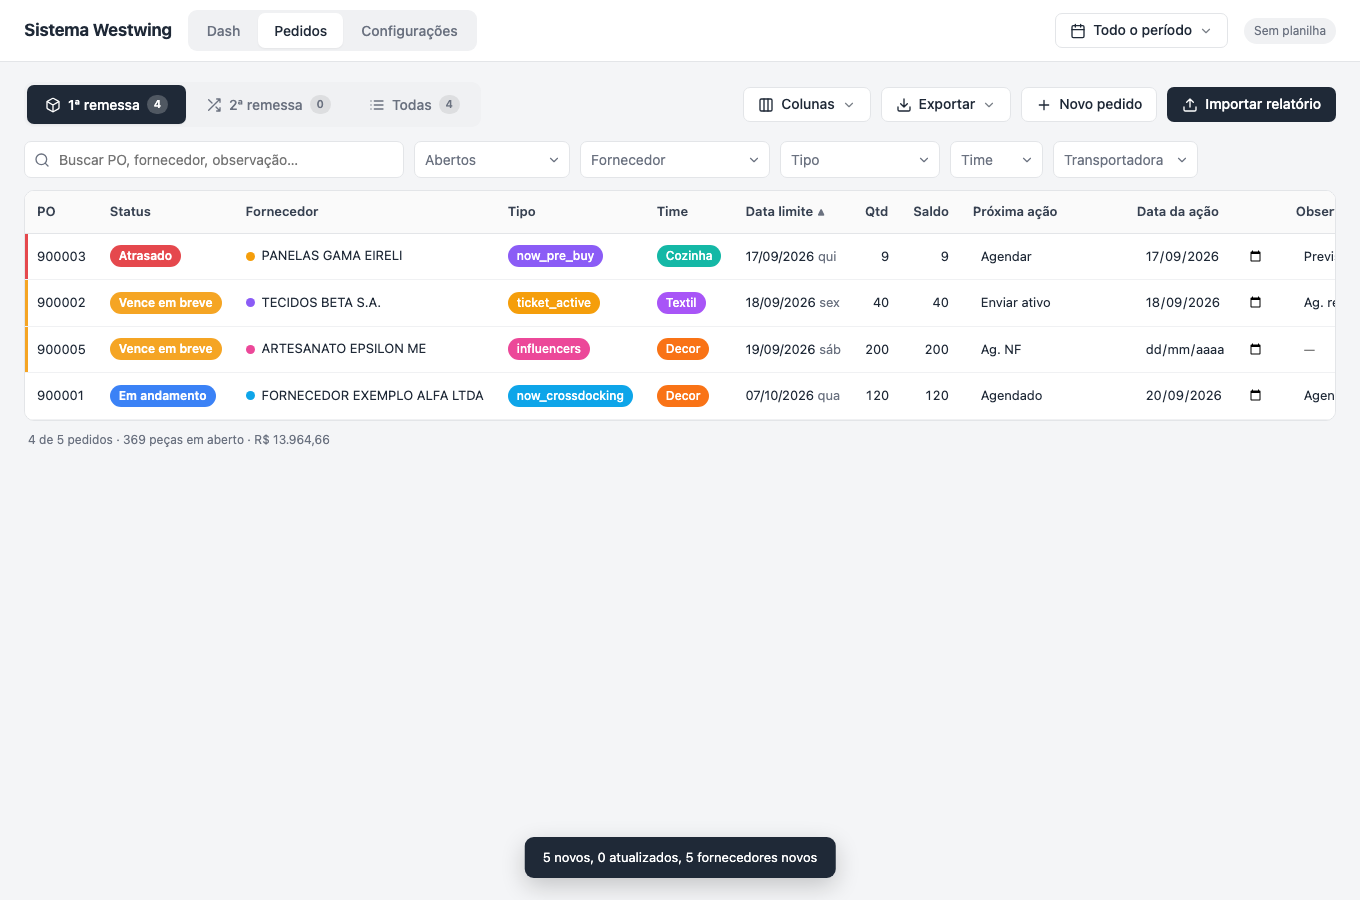
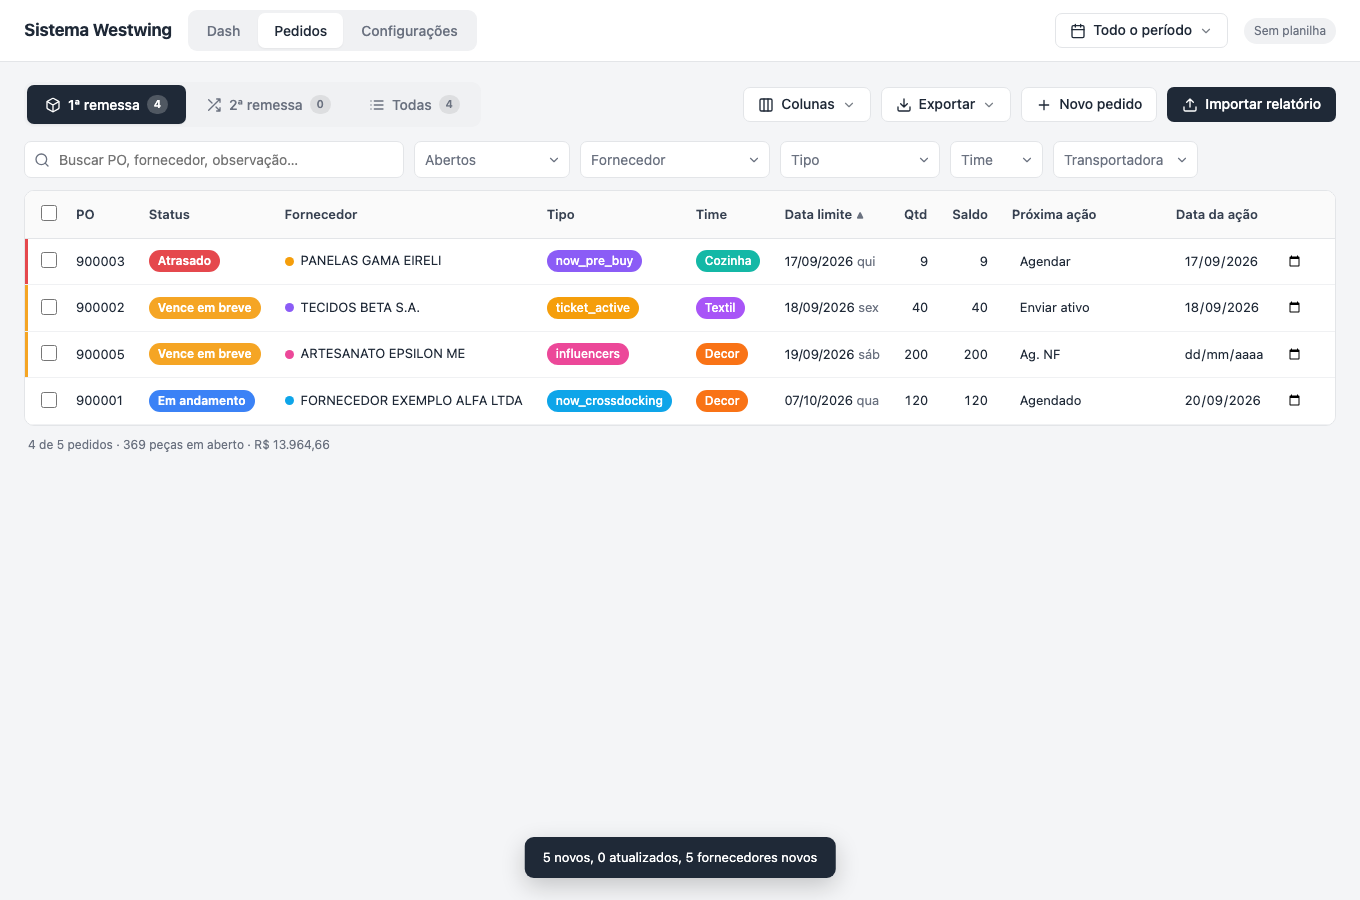
Ações em massa: seleção por caixinha, todos os visíveis, faixa com Shift; finalizar/reabrir/remessa/ação+data/Excel/excluir

diff --git a/app.js b/app.js
@@ -14,6 +14,7 @@
   let S = { pedidos: [], fornecedores: [], transportadoras: [], tags: [], config: {}, fila: [], versao: 0, ultimaSync: '' };
   let L = { apiUrl: '', chave: '' }; // só neste navegador
   let UI = { aba: 'dash', ordem: { col: 'limite', dir: 'asc' }, filtros: { status: 'abertos', remessa: '1' }, buscaForn: '' };
+  const SEL = new Set(); let ultimoSel = null; // seleção pra ações em massa (POs)
 
   function carregar() {
     try { const s = JSON.parse(localStorage.getItem(LS) || 'null'); if (s) S = Object.assign(S, s); } catch (e) { }
@@ -547,7 +548,10 @@
     let lista = C.filtrar(S.pedidos, f, ctx());
     lista = C.ordenar(lista, UI.ordem.col, UI.ordem.dir, ctx());
     const cols = colunasVisiveis();
-    $('#tabela-cab').innerHTML = cols.map(k => '<th data-col="' + esc(k) + '">' + esc(nomeColuna(k)) + (UI.ordem.col === k ? '<span class="seta">' + (UI.ordem.dir === 'asc' ? '▲' : '▼') + '</span>' : '') + '</th>').join('') + '<th></th>';
+    const visiveis = new Set(lista.map(p => String(p.po)));
+    SEL.forEach(po => { if (!visiveis.has(po)) SEL.delete(po); });
+    const todosSel = lista.length > 0 && lista.every(p => SEL.has(String(p.po)));
+    $('#tabela-cab').innerHTML = '<th class="sel"><input type="checkbox" id="sel-todos" title="Selecionar todos os visíveis"' + (todosSel ? ' checked' : '') + '></th>' + cols.map(k => '<th data-col="' + esc(k) + '">' + esc(nomeColuna(k)) + (UI.ordem.col === k ? '<span class="seta">' + (UI.ordem.dir === 'asc' ? '▲' : '▼') + '</span>' : '') + '</th>').join('') + '<th></th>';
     const h = hoje(), ant = S.config.antecedencia;
     const cel = (p, k) => {
       const v = p[k];
@@ -577,13 +581,52 @@
       const tds = cols.map(k => { const c = cel(p, k); return c.startsWith('<td') ? c + '</td>' : '<td>' + c + '</td>'; }).join('');
       const btn = p.finalizacao ? '<button class="btn-mini" data-acao="reabrir" data-po="' + esc(p.po) + '">Reabrir</button>' : '<button class="btn-mini" data-acao="finalizar" data-po="' + esc(p.po) + '" title="Finalizar (data de hoje)">' + ico('check') + 'Finalizar</button>';
       const mover = C.remessaDe(p) === '2' ? '<button class="btn-mini" data-acao="remessa1" data-po="' + esc(p.po) + '" title="Voltar pra 1ª remessa">← 1ª</button>' : '<button class="btn-mini" data-acao="remessa2" data-po="' + esc(p.po) + '" title="Mover pra 2ª remessa (entrega parcial, item similar, BO)">→ 2ª</button>';
-      return '<tr class="st-' + st + '" data-po="' + esc(p.po) + '">' + tds + '<td class="acoes">' + btn + mover + '<button class="btn-mini" data-acao="editar" data-po="' + esc(p.po) + '" title="Editar tudo">' + ico('edit') + '</button></td></tr>';
+      const sel = SEL.has(String(p.po));
+      return '<tr class="st-' + st + (sel ? ' selecionada' : '') + '" data-po="' + esc(p.po) + '"><td class="sel"><input type="checkbox" data-sel="' + esc(p.po) + '"' + (sel ? ' checked' : '') + '></td>' + tds + '<td class="acoes">' + btn + mover + '<button class="btn-mini" data-acao="editar" data-po="' + esc(p.po) + '" title="Editar tudo">' + ico('edit') + '</button></td></tr>';
     });
     $('#tabela-corpo').innerHTML = linhas.join('');
     $('#tabela-vazio').classList.toggle('oculto', lista.length > 0);
     const valor = lista.reduce((s, p) => s + (Number(p.valor) || 0), 0);
     $('#tabela-total').textContent = lista.length + ' de ' + S.pedidos.length + ' pedidos · ' + C.fmtInt(lista.reduce((s, p) => s + C.saldo(p), 0)) + ' peças em aberto · ' + C.fmtMoeda(valor);
     renderPopColunas();
+    renderMassa();
+  }
+  function renderMassa() {
+    const n = SEL.size; const el = $('#massa');
+    el.classList.toggle('oculto', n === 0);
+    $('#massa-n').textContent = n + (n === 1 ? ' selecionado' : ' selecionados');
+  }
+  function selecionar(po, marcado, comShift) {
+    const lista = listaFiltrada().map(p => String(p.po));
+    if (comShift && ultimoSel && lista.includes(ultimoSel) && lista.includes(po)) {
+      const a = lista.indexOf(ultimoSel), b = lista.indexOf(po);
+      lista.slice(Math.min(a, b), Math.max(a, b) + 1).forEach(x => marcado ? SEL.add(x) : SEL.delete(x));
+    } else if (marcado) SEL.add(po); else SEL.delete(po);
+    ultimoSel = po; renderPedidos();
+  }
+  function acaoEmMassa(tipo) {
+    const pos = Array.from(SEL); const ps = pos.map(pedidoPorPO).filter(Boolean); if (!ps.length) return;
+    const h = hoje(); let msg = '';
+    if (tipo === 'limpar') { SEL.clear(); renderPedidos(); return; }
+    if (tipo === 'xlsx') { exportarLista(C.ordenar(ps, UI.ordem.col, UI.ordem.dir, ctx()), 'pedidos-selecionados', 'xlsx'); return; }
+    if (tipo === 'excluir') {
+      if (!confirm('Excluir ' + ps.length + ' pedido(s)? Isso apaga da planilha também.')) return;
+      S.pedidos = S.pedidos.filter(p => !SEL.has(String(p.po)));
+      enfileirar({ acao: 'deletePedidos', pos }); enfileirar({ acao: 'log', entradas: [{ quando: new Date().toISOString(), tipo: 'excluir-massa', pos }] });
+      SEL.clear(); salvarLocal(); renderTudo(); toast(pos.length + ' pedidos excluídos'); return;
+    }
+    if (tipo === 'finalizar') { ps.forEach(p => { p.finalizacao = h; p.update = h; }); msg = ps.length + ' finalizados'; }
+    else if (tipo === 'reabrir') { ps.forEach(p => { p.finalizacao = ''; p.update = h; }); msg = ps.length + ' reabertos'; }
+    else if (tipo === 'remessa2' || tipo === 'remessa1') { const r = tipo === 'remessa2' ? '2' : '1'; ps.forEach(p => { p.remessa = r; p.update = h; }); msg = ps.length + ' → ' + r + 'ª remessa'; }
+    else if (tipo === 'acao') {
+      const acao = $('#massa-acao').value.trim(), data = C.parseData($('#massa-data').value);
+      if (!acao && !data) { toast('Preencha a ação e/ou a data', true); return; }
+      ps.forEach(p => { if (acao) p.acao = acao; if (data) p.dataAcao = data; p.update = h; });
+      if (acao && !S.config.acoes.includes(acao)) { S.config.acoes.push(acao); salvarConfig(); }
+      msg = 'Ação aplicada em ' + ps.length; $('#massa-acao').value = ''; $('#massa-data').value = '';
+    } else return;
+    gravarPedidos(ps, { tipo: 'massa-' + tipo, n: ps.length, pos });
+    SEL.clear(); renderTudo(); toast(msg);
   }
   function listaFiltrada() { return C.ordenar(C.filtrar(S.pedidos, Object.assign({}, UI.filtros, { periodo: periodoAtual() }), ctx()), UI.ordem.col, UI.ordem.dir, ctx()); }
   function renderPopColunas() {
@@ -857,6 +900,10 @@
       UI.ordem = { col, dir: UI.ordem.col === col && UI.ordem.dir === 'asc' ? 'desc' : 'asc' }; salvarLocal(); renderPedidos();
     });
     $('#tabela-corpo').addEventListener('change', e => { const t = e.target; if (t.dataset.k) editarCampo(t.dataset.po, t.dataset.k, t.value); });
+    $('#tabela-corpo').addEventListener('click', e => { const c = e.target.closest('input[data-sel]'); if (c) selecionar(c.dataset.sel, c.checked, e.shiftKey); });
+    $('#tabela-cab').addEventListener('change', e => { if (e.target.id === 'sel-todos') { const lista = listaFiltrada(); lista.forEach(p => e.target.checked ? SEL.add(String(p.po)) : SEL.delete(String(p.po))); renderPedidos(); } });
+    $('#massa').addEventListener('click', e => { const b = e.target.closest('button[data-massa]'); if (b) acaoEmMassa(b.dataset.massa); });
+    $('#massa-acao').addEventListener('keydown', e => { if (e.key === 'Enter') { e.preventDefault(); acaoEmMassa('acao'); } });
     $('#tabela-corpo').addEventListener('keydown', e => { if (e.key === 'Enter' && e.target.dataset.k) e.target.blur(); });
     $('#tabela-corpo').addEventListener('click', e => {
       const b = e.target.closest('button[data-acao]'); if (!b) return;
@@ -1068,5 +1115,5 @@
   atualizarSync();
   if (viaLink) { irPara('dash'); toast('Acesso configurado. Lendo a planilha…'); }
   if (conectado()) sincronizar(true);
-  window.SJO = { S, L, UI, SY, LIMIAR, PC, sincronizar, flush, renderAviso, exportarLista, definirPeriodo, gerarLinkAcesso }; // pra depuração no console
+  window.SJO = { S, L, UI, SY, LIMIAR, PC, SEL, sincronizar, flush, renderAviso, exportarLista, definirPeriodo, gerarLinkAcesso }; // pra depuração no console
 })();

diff --git a/tests/smoke.js b/tests/smoke.js
@@ -175,6 +175,35 @@ async function json(url) { const r = await fetch(url); return r.json(); }
   t('limpar aparece com contagem', await ev(`document.querySelector('#btn-limpar-filtros').classList.contains('oculto')`) === false && await ev(`document.querySelector('#n-filtros').textContent`) === '1');
   await ev(`document.querySelector('#btn-limpar-filtros').click(); 'ok'`);
   t('limpar zera', await ev(`document.querySelector('#f-tipo').classList.contains('ativo')`) === false);
+  // ações em massa: seleção, selecionar todos, shift, finalizar, ação, excluir
+  t('barra de massa oculta sem seleção', await ev(`document.querySelector('#massa').classList.contains('oculto')`) === true);
+  await ev(`document.querySelector('#tabela-corpo input[data-sel="900001"]').click(); 'ok'`);
+  t('1 selecionado', await ev(`SJO.SEL.size`) === 1 && /1 selecionado/.test(await ev(`document.querySelector('#massa-n').textContent`)) && await ev(`document.querySelector('#massa').classList.contains('oculto')`) === false);
+  t('linha destacada', await ev(`document.querySelector('#tabela-corpo tr[data-po="900001"]').classList.contains('selecionada')`) === true);
+  await ev(`(function(){ const c = document.querySelector('#tabela-corpo input[data-sel="900004"]'); c.dispatchEvent(new MouseEvent('click', { bubbles: true, shiftKey: true })); return 'ok'; })()`);
+  t('shift seleciona faixa', await ev(`SJO.SEL.size`) === 4);
+  await ev(`document.querySelector('button[data-massa="limpar"]').click(); 'ok'`);
+  t('limpar seleção', await ev(`SJO.SEL.size`) === 0);
+  await ev(`(function(){ const c = document.querySelector('#sel-todos'); c.checked = true; c.dispatchEvent(new Event('change', { bubbles: true })); return 'ok'; })()`);
+  t('selecionar todos', await ev(`SJO.SEL.size`) === 4);
+  await ev(`document.querySelector('#massa-acao').value = 'Agendar'; document.querySelector('#massa-data').value = Core.addDias(Core.hojeISO(), 3); document.querySelector('button[data-massa="acao"]').click(); 'ok'`);
+  t('ação em massa aplicada', await ev(`SJO.S.pedidos.filter(p => p.acao === 'Agendar' && p.dataAcao === Core.addDias(Core.hojeISO(), 3)).length`) === 4 && await ev(`SJO.SEL.size`) === 0);
+  await ev(`document.querySelector('#tabela-corpo input[data-sel="900001"]').click(); document.querySelector('#tabela-corpo input[data-sel="900005"]').click(); document.querySelector('button[data-massa="remessa2"]').click(); 'ok'`);
+  t('remessa em massa', await ev(`SJO.S.pedidos.filter(p => p.remessa === '2').length`) === 2 && await ev(`document.querySelector('[data-cont="2"]').textContent`) === '2');
+  await ev(`document.querySelector('#f-remessa button[data-v="2"]').click(); (function(){ const c = document.querySelector('#sel-todos'); c.checked = true; c.dispatchEvent(new Event('change', { bubbles: true })); return 'ok'; })()`);
+  await ev(`document.querySelector('button[data-massa="remessa1"]').click(); document.querySelector('#f-remessa button[data-v="1"]').click(); 'ok'`);
+  t('volta em massa', await ev(`SJO.S.pedidos.filter(p => p.remessa === '2').length`) === 0);
+  await ev(`document.querySelector('#tabela-corpo input[data-sel="900001"]').click(); document.querySelector('#tabela-corpo input[data-sel="900002"]').click(); document.querySelector('button[data-massa="finalizar"]').click(); 'ok'`);
+  t('finalizar em massa', await ev(`SJO.S.pedidos.filter(p => p.finalizacao).length`) === 3 && await ev(`document.querySelectorAll('#tabela-corpo tr').length`) === 2);
+  await ev(`(function(){ const s = document.querySelector('#f-status'); s.value = 'finalizado'; s.dispatchEvent(new Event('change', {bubbles:true})); return 'ok'; })()`);
+  await ev(`document.querySelector('#tabela-corpo input[data-sel="900001"]').click(); document.querySelector('#tabela-corpo input[data-sel="900002"]').click(); document.querySelector('button[data-massa="reabrir"]').click(); 'ok'`);
+  t('reabrir em massa', await ev(`SJO.S.pedidos.filter(p => p.finalizacao).length`) === 1);
+  await ev(`document.querySelector('#btn-limpar-filtros').click(); 'ok'`);
+  await ev(`window.confirm = () => true; SJO.S.pedidos.push(Object.assign(Core.pedidoVazio(), { po: 'X9', fornecedor: 'TMP', limite: Core.hojeISO() })); 'ok'`);
+  await ev(`document.querySelector('.aba[data-aba="pedidos"]').click(); document.querySelector('#tabela-corpo input[data-sel="X9"]').click(); document.querySelector('button[data-massa="excluir"]').click(); 'ok'`);
+  t('excluir em massa', await ev(`SJO.S.pedidos.some(p => p.po === 'X9')`) === false && await ev(`SJO.S.fila.some(op => op.acao === 'deletePedidos' && op.pos.includes('X9'))`) === true);
+  await ev(`SJO.S.pedidos.forEach(p => { p.acao = ''; p.dataAcao = ''; }); SJO.S.pedidos.find(p => p.po === '900002').acao = 'Agendar'; SJO.S.pedidos.find(p => p.po === '900002').dataAcao = Core.hojeISO(); 'ok'`);
+
   // exportar: menu com Excel e CSV (intercepta o download)
   await ev(`window.__blobs = []; URL.createObjectURL = b => { window.__blobs.push({ size: b.size, type: b.type }); return 'blob:x'; }; 'ok'`);
   await ev(`document.querySelector('#btn-exportar').click(); 'ok'`);

diff --git a/style.css b/style.css
@@ -199,6 +199,19 @@ select { appearance: none; -webkit-appearance: none; padding-right: 28px; backgr
 .lista-datas .item .extra { color: var(--mudo); display: flex; gap: 8px; align-items: center; white-space: nowrap; }
 .vazio { color: var(--mudo); padding: 22px; text-align: center; }
 
+/* ações em massa */
+.massa { position: sticky; top: 53px; z-index: 18; display: flex; align-items: center; gap: 8px; flex-wrap: wrap; background: var(--primaria); color: #fff; padding: 10px 14px; border-radius: var(--raio); margin-bottom: 12px; box-shadow: 0 8px 24px rgba(0,0,0,.18); }
+.massa b { margin-right: 6px; white-space: nowrap; }
+.massa .btn-mini { background: rgba(255,255,255,.12); border-color: rgba(255,255,255,.25); color: #fff; }
+.massa .btn-mini:hover { background: rgba(255,255,255,.22); }
+.massa .btn-mini.perigo { border-color: #fca5a5; color: #fecaca; }
+.massa .massa-acao { display: inline-flex; gap: 6px; align-items: center; border-left: 1px solid rgba(255,255,255,.25); padding-left: 10px; margin-left: 2px; }
+.massa .massa-acao input { padding: 4px 8px; font-size: 12px; border-color: transparent; }
+.massa .massa-acao input[list] { width: 150px; }
+.tabela th.sel, .tabela td.sel { width: 34px; padding-left: 12px; padding-right: 4px; cursor: default; }
+.tabela td.sel input, .tabela th.sel input { width: 16px; height: 16px; min-width: 0; accent-color: var(--primaria); cursor: pointer; }
+.tabela tr.selecionada { background: #eef2ff !important; }
+
 /* pedidos */
 .barra { display: flex; gap: 10px; align-items: center; flex-wrap: wrap; margin-bottom: 12px; }
 .barra-remessa { margin-bottom: 14px; }

diff --git a/index.html b/index.html
@@ -166,6 +166,18 @@
       <select id="f-transp" class="filtro"><option value="">Transportadora</option></select>
       <button class="btn-leve btn-limpar oculto" id="btn-limpar-filtros"><svg class="ico"><use href="#i-x"/></svg>Limpar <span id="n-filtros"></span></button>
     </div>
+    <div id="massa" class="massa oculto" role="toolbar">
+      <b id="massa-n">0 selecionados</b>
+      <button class="btn-mini" data-massa="finalizar"><svg class="ico"><use href="#i-check"/></svg>Finalizar</button>
+      <button class="btn-mini" data-massa="reabrir">Reabrir</button>
+      <button class="btn-mini" data-massa="remessa2">→ 2ª remessa</button>
+      <button class="btn-mini" data-massa="remessa1">← 1ª remessa</button>
+      <span class="massa-acao"><input id="massa-acao" list="dl-acoes" placeholder="Próxima ação"><input type="date" id="massa-data" title="Data da ação"><button class="btn-mini" data-massa="acao">Aplicar ação</button></span>
+      <button class="btn-mini" data-massa="xlsx"><svg class="ico"><use href="#i-xls"/></svg>Excel</button>
+      <button class="btn-mini perigo" data-massa="excluir">Excluir</button>
+      <span class="espaco"></span>
+      <button class="btn-mini" data-massa="limpar"><svg class="ico"><use href="#i-x"/></svg>Limpar seleção</button>
+    </div>
     <div class="tabela-wrap">
       <table id="tabela" class="tabela">
         <thead><tr id="tabela-cab"></tr></thead>

diff --git a/tests/screenshot.js b/tests/screenshot.js
@@ -45,6 +45,8 @@ const dorme = ms => new Promise(r => setTimeout(r, ms));
     S.config.emailDestino = 'julia@exemplo.com'; S.config.linkApp = 'https://flux-marketing-ai.github.io/system-julia-oliveira/';
     return 'ok'; })()`);
   await ev(`document.querySelector('.aba[data-aba="pedidos"]').click(); 'ok'`); await dorme(200); await shot('pedidos.png');
+  await ev(`document.querySelector('#tabela-corpo input[data-sel="900002"]').click(); document.querySelector('#tabela-corpo input[data-sel="900005"]').click(); 'ok'`); await dorme(200); await shot('pedidos-massa.png');
+  await ev(`document.querySelector('button[data-massa="limpar"]').click(); 'ok'`);
   await ev(`document.querySelector('.aba[data-aba="dash"]').click(); 'ok'`); await dorme(200); await shot('dash.png');
   await ev(`document.querySelector('.kpi[data-filtro="vence"]').click(); 'ok'`); await dorme(200); await shot('dash-vencem.png');
   await ev(`document.querySelector('.kpi[data-filtro="vence"]').click(); document.querySelector('#periodo-btn').click(); 'ok'`); await dorme(200); await shot('periodo.png');

diff --git a/docs/02-instalacao.md b/docs/02-instalacao.md
@@ -79,6 +79,7 @@ O sistema tem duas partes:
   Pedido que já existe não é duplicado, e o que você escreveu (observação, ação, datas) nunca é apagado pela importação.
 - **Todo dia:** o e-mail chega; a aba Dash mostra o mesmo em tela, com a lista "Hoje" pra ir marcando.
 - **Editar:** clique direto na célula (observação, próxima ação, data da ação, entregue). Salva sozinho. "Salvo" em verde no canto = gravou na planilha.
+- **Várias linhas de uma vez:** marque as caixinhas à esquerda (a do cabeçalho marca todas as visíveis; Shift + clique marca uma faixa). Aparece uma barra escura com: Finalizar, Reabrir, mover de remessa, aplicar próxima ação + data, exportar em Excel, excluir.
 - **Finalizar:** botão ✓ na linha. Some da lista padrão (filtro "Abertos"), fica no histórico (filtro "Finalizados"). Errou? "Reabrir".
 - **Período:** o botão de calendário no topo vale pra todas as abas. Atalhos (hoje, ontem, últimos 7/14/60/90 dias, este mês, mês passado, próximos 7/14/30 dias) ou uma faixa no calendário (clique no início e no fim). "Aplicar em" escolhe se o período olha a data limite ou o envio do PO.
 - **Exportar:** botão "Exportar" → Excel (.xlsx, abre direto, datas e valores já formatados) ou CSV. Sai só o que está filtrado na tela; em Configurações → Dados sai tudo.
